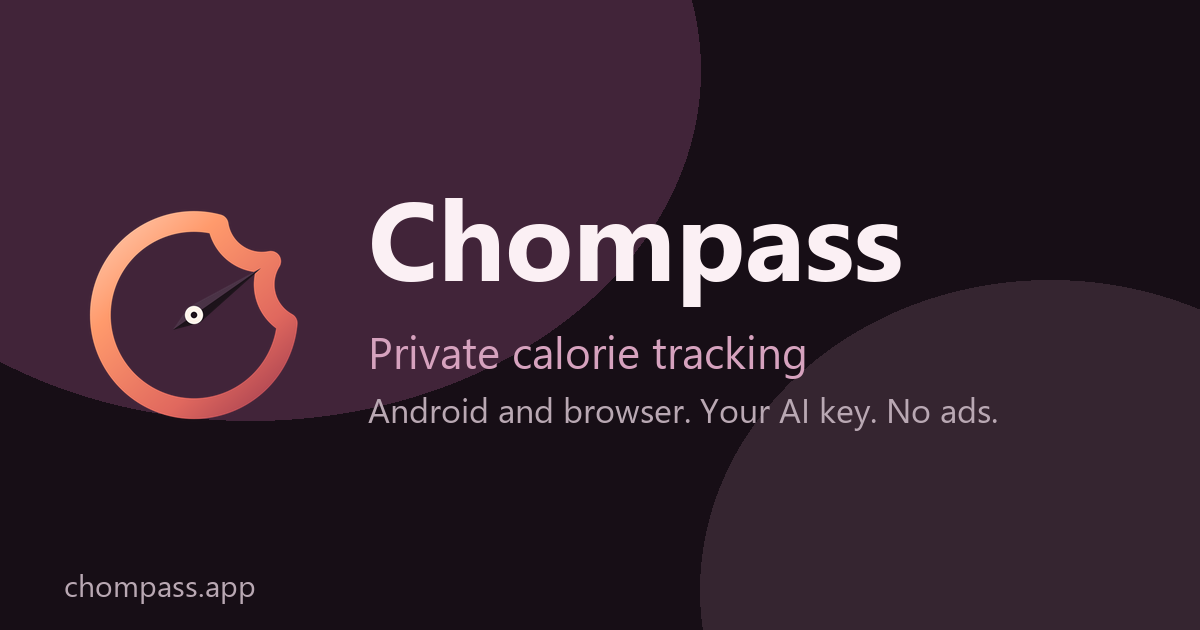
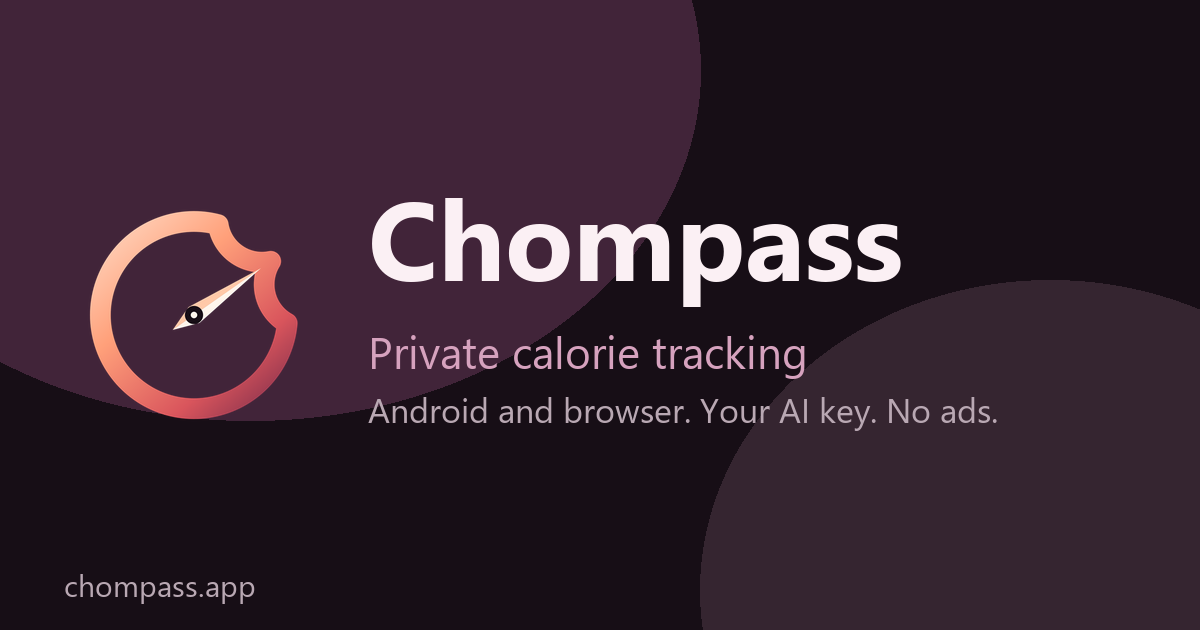
brand: lock the mark to Ripened, glazed on dark
Decision: the shared mark is Ripened; light grounds get cream + ink needle + cream hub, dark
grounds get RipenedGlow + blush needle + plum hub. The light mark never sits on plum, so the
static art follows its ground too: the site header logo and OG image now use the noir variant
(previously the light mark on a plum field), while launcher/favicon/PWA/BIMI tiles keep the
light mark on cream. Accents stay decoupled from the mark.

Changed region(s): [[0.0617, 0.3317, 0.185, 0.5429], [0.1542, 0.4222, 0.2158, 0.5127]]

diff --git a/scripts/generate_icons.py b/scripts/generate_icons.py
@@ -405,9 +405,14 @@ def write_splash_marks(color_raster: Image.Image, noir_raster: Image.Image) -> N
 def write_pwa_icons(
     rounded_mask: Image.Image,
     color_raster: Image.Image,
+    noir_raster: Image.Image,
     logo_mask: Image.Image,
 ) -> None:
-    """PWA, store-listing, and website icons (cream tile brand mark)."""
+    """PWA, store-listing, and website icons.
+
+    Tiles carry the light mark on cream; the bare site mark is the noir variant,
+    because every ground it sits on is plum.
+    """
     PWA_ICONS.mkdir(parents=True, exist_ok=True)
     for name, px in (
         ("icon-192.png", 192),
@@ -424,9 +429,11 @@ def write_pwa_icons(
     METADATA_ICON.parent.mkdir(parents=True, exist_ok=True)
     compose_brand_icon(512, rounded_mask, color_raster).save(METADATA_ICON, optimize=True)
 
-    # Website header/OG art: transparent mark, no tile. Browser tab: cream tile.
+    # Website header/OG art: transparent mark, no tile. Both grounds on the site are
+    # plum, so this is the noir (glow) mark with a transparent hub — the light mark
+    # only ever sits on cream. Browser tab: cream tile, so the light mark.
     WEBSITE_IMG.mkdir(parents=True, exist_ok=True)
-    compose_mark_image(LOGO_SIZE, color_raster, 1.0).save(WEBSITE_IMG / "logo.png", optimize=True)
+    compose_mark_image(LOGO_SIZE, noir_raster, 1.0).save(WEBSITE_IMG / "logo.png", optimize=True)
     compose_brand_icon(64, rounded_mask, color_raster).save(
         WEBSITE_IMG / "favicon.png", optimize=True
     )
@@ -446,7 +453,7 @@ def main() -> None:
     write_density_icons(color_raster, logo_mask, rounded_mask, circle_mask)
     write_adaptive_icons(color_raster, logo_mask)
     write_splash_marks(color_raster, noir_raster)
-    write_pwa_icons(rounded_mask, color_raster, logo_mask)
+    write_pwa_icons(rounded_mask, color_raster, noir_raster, logo_mask)
 
     print(
         f"Generated icons from {MARK_SVG.relative_to(ROOT)} "

diff --git a/scripts/assets/build_icon_mark.py b/scripts/assets/build_icon_mark.py
@@ -9,6 +9,9 @@ coordinate box:
   by two 34-radius scallops between 1 and 3 o'clock — the "chomp".
 * `NEEDLE_A` / `NEEDLE_B` are the two facets of a needle whose tip sits in the
   bite and whose pivot is the dial centre (100, 100).
+* The hub is an opaque disc over the needle, matching the ground it sits on
+  (cream on cream, plum on plum) so the pivot reads as a hole; the pin in its
+  centre keeps the needle legible.
 
 The wordmark's bitten "o" (60-unit box, stroke 8) is not emitted here: its two
 consumers are Compose (`ChompassMark.kt`) and the Hugo partial

diff --git a/docs/PLAN_BRAND_REFRESH.md b/docs/PLAN_BRAND_REFRESH.md
@@ -9,6 +9,20 @@ glass blur/strength, ambient controls, fixed-icon toggle and launcher-alias swit
 Plum (fig) is the **temporary** default; Peach ships alongside so the default can be flipped without
 a redesign (the swap steps are enumerated in `AppThemeColor.DEFAULT_KEY`'s call sites).
 
+## Brand defaults (decided 2026-11-02)
+
+- **Mark**: Ripened. Light ground cream `#FFF6EC` with ink needle (`#1C131A` / `#4A3346`) and cream
+  hub; dark ground plum `#170E16` with the `RipenedGlow` ring, blush needle (`#FFF6EC` / `#FFC9A8`)
+  and plum hub. The hub is an opaque disc that matches the ground, so the pivot reads as a hole.
+- **Rule**: the light mark never sits on plum. Everything switches with its ground — in-app Canvas by
+  background luminance, Android splash by `drawable-night`, and the static art explicitly: the site
+  header logo and OG image use the noir asset; launcher/favicon/PWA/BIMI tiles carry the light mark
+  on cream.
+- **Accents**: decoupled. Plum and Peach change chrome only; one cream launcher icon serves both, so
+  flipping `AppThemeColor.DEFAULT_KEY` needs no asset regeneration.
+- Rejected for now: Classic (peach) and Fig (plum) mark gradients — both stay in the study
+  (`docs/brand/logo-system.html`, Mark gradient switch) and in the local preview page.
+
 ## Commits
 
 - **1 — reference**: study copied to `docs/brand/logo-system.html`, docs index row, this file.

diff --git a/docs/ASSET_CREDITS.md b/docs/ASSET_CREDITS.md
@@ -21,6 +21,9 @@ The Chompass mark — a bitten compass ring with a two-facet needle pointing int
 
 `scripts/assets/build_icon_mark.py` emits the three mark SVGs (light, noir, mask) plus the BIMI logo `website/static/bimi/logo.svg`; `scripts/generate_icons.py` then emits the launcher density set, adaptive layers, splash marks, and the PWA/website/store-listing icons (via `resvg`). The script also writes a generated brand preview (`scripts/chompass_icon_master.png`); edit the SVG, not the PNG. The default brand is a cream `#FFF6EC` tile carrying the Ripened ring `#FFD9C2 → #FF9A6C → #E0685E → #8C2E4A` with the ink needle. Plum (the default accent) and Peach share that icon, so changing the default accent needs no asset regeneration.
 
+The noir (glow) variant is the dark-ground asset: app dark scheme, night splash, and the site
+header/OG mark. Tiles — launcher, favicon, PWA, BIMI — carry the light mark on cream.
+
 On Android API 26+, home-screen icons use adaptive XML (`mipmap-anydpi-v26`) with a cream or theme-gradient background, a safe-zone foreground logo, and a monochrome layer so the system icon-shape mask and Material You themed icons apply. PWA and store listing icons remain pre-shaped squircles.
 
 ## Display numerals
